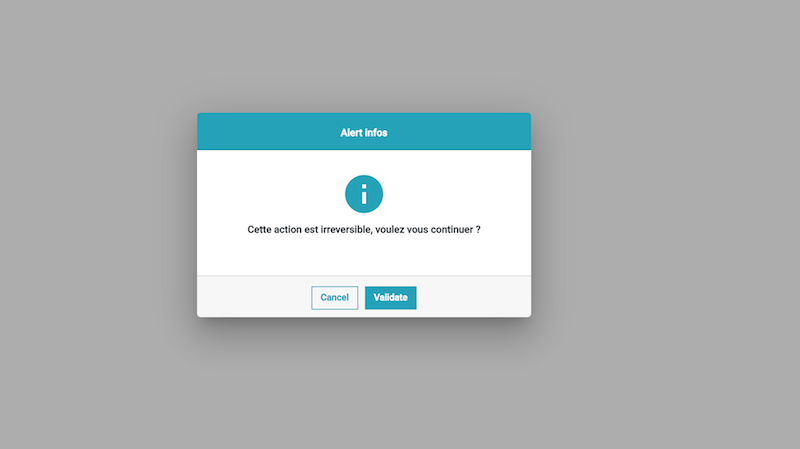
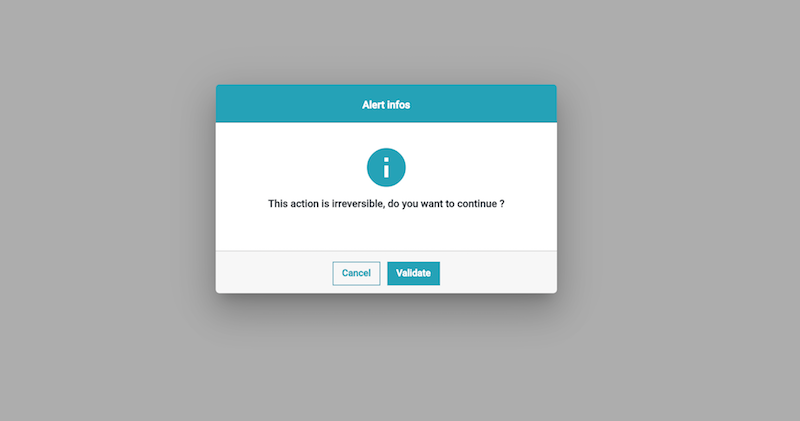
refactor(akiltech-lib): add mixins in styles and update screenshots

Changed region(s): [[0.2188, 0.1853, 0.7188, 0.7102]]

diff --git a/projects/akiltech/modal-confirm/src/lib/themes/_buttons.scss b/projects/akiltech/modal-confirm/src/lib/themes/_buttons.scss
@@ -1,93 +1,43 @@
 /* Custom buttons for current modal component */
 
+@import './mixins';
+
 // Success btn
 .btn-add-success {
-  color: $white;
-  background-color: $green;
-
-  &:hover {
-    color: $white;
-    background-color: darken($green, 10%);
-  }
+  @include btn-class($green);
 }
 
 // Success outline btn
 .btn-add-success-outline {
-  color: $green;
-  background-color: none;
-  border: 1px solid $green;
-
-  &:hover {
-    color: $white;
-    background-color: darken($green, 10%);
-  }
+  @include btn-outline-class($green);
 }
 
 // Danger btn
 .btn-add-danger {
-  color: $white;
-  background-color: $red;
-  
-  &:hover {
-    color: $white;
-    background-color: darken($red, 10%);
-  }
+  @include btn-class($red);
 }
 
 // Danger outline btn
 .btn-add-danger-outline {
-  color: $red;
-  background-color: none;
-  border: 1px solid $red;
-
-  &:hover {
-    color: $white;
-    background-color: darken($red, 10%);
-  }
+  @include btn-outline-class($red);
 }
 
 // Warning btn
 .btn-add-warning {
-  color: $white;
-  background-color: $warning;
-
-  &:hover {
-    color: $white;
-    background-color: darken($warning, 10%);
-  }
+  @include btn-class($warning);
 }
 
 // Warning outline btn
 .btn-add-warning-outline {
-  color: $warning;
-  background-color: none;
-  border: 1px solid $warning;
-
-  &:hover {
-    color: $white;
-    background-color: darken($warning, 10%);
-  }
+  @include btn-outline-class($warning);
 }
 
 // Default btn
 .btn-add-default {
-  color: $white;
-  background-color: $info;
-
-  &:hover {
-    color: $white;
-    background-color: darken($info, 10%);
-  }
+  @include btn-class($info);
 }
 
 // Warning outline btn
 .btn-add-default-outline {
-  color: $info;
-  background-color: none;
-  border: 1px solid $info;
-
-  &:hover {
-    color: $white;
-    background-color: darken($info, 10%);
-  }
+  @include btn-outline-class($info);
 }

diff --git a/projects/modal-test/src/app/about/about.component.ts b/projects/modal-test/src/app/about/about.component.ts
@@ -19,20 +19,20 @@ export class AboutComponent implements OnInit, OnDestroy {
 
   openDialog () {
     const dialogData: ConfirmInterface = {
-      type: CONFIRMATION_TYPE.WARNING,
+      // type: CONFIRMATION_TYPE.WARNING,
       // headerShown: false,
       // iconShown: false,
       footerShown: false,
-      headerTitle: 'Header title',
+      // headerTitle: 'Header title',
       // iconName: 'zoom_out',
-      bodyText: 'Body content',
-      // childComponent: InjectedComponent,
-      btnYes: 'Oui',
-      btnNo: 'Non'
+      // bodyText: 'Body content',
+      childComponent: InjectedComponent,
+      // btnYes: 'Oui',
+      // btnNo: 'Non'
     };
  
     const dialogOptions: OptionsInterface = {
-        size: '800',
+        // size: '800',
         // disabledClose: true
     }
 

diff --git a/projects/akiltech/modal-confirm/src/lib/components/modal-confirm/modal-confirm.component.ts b/projects/akiltech/modal-confirm/src/lib/components/modal-confirm/modal-confirm.component.ts
@@ -117,7 +117,7 @@ export class ModalConfirmComponent implements OnInit, OnDestroy, AfterViewChecke
     this.footerShown = data.footerShown;
     this.iconShown = data.iconShown;
     this.iconName = data.iconName;
-    this.bodyText = data.bodyText || `Cette action est irreversible, voulez vous continuer ?`;
+    this.bodyText = data.bodyText || `This action is irreversible, do you want to continue ?`;
     this.childComponent = data.childComponent;
     this.btnYes = data.btnYes;
     this.btnNo = data.btnNo;

diff --git a/projects/akiltech/modal-confirm/src/lib/themes/_mixins.scss b/projects/akiltech/modal-confirm/src/lib/themes/_mixins.scss
@@ -1,0 +1,24 @@
+/* Mixins helpers functions */
+
+// Btn class mixin
+@mixin btn-class($color) {
+    color: $white;
+    background-color: $color;
+  
+    &:hover {
+      color: $white;
+      background-color: darken($color, 10%);
+    }
+}
+  
+// Outline btn mixin
+@mixin btn-outline-class($color) {
+    color: $color;
+    background-color: none;
+    border: 1px solid $color;
+
+    &:hover {
+        color: $white;
+        background-color: darken($color, 10%);
+    }
+}

diff --git a/projects/modal-test/src/app/home/home.component.ts b/projects/modal-test/src/app/home/home.component.ts
@@ -19,9 +19,9 @@ export class HomeComponent implements OnInit, OnDestroy {
   openDialog () {
     const dialogData: ConfirmInterface = {
       type: CONFIRMATION_TYPE.SUCCESS,
-      headerShown: false,
-      iconShown: false,
-      footerShown: false,
+      // headerShown: false,
+      // iconShown: false,
+      // footerShown: false,
       headerTitle: 'Header title',
       // iconName: 'zoom_out',
       bodyText: 'Body content',

diff --git a/projects/modal-test/src/app/injected/injected.component.html b/projects/modal-test/src/app/injected/injected.component.html
@@ -3,6 +3,6 @@
         <p class="bg-warning p-2">
             Lorem ipsum dolor sit amet consectetur adipisicing elit. Quia alias dolor incidunt temporibus veniam nam provident
         </p>
-        <button class="btn btn-info" (click)="closeDialog()">Fermer</button>
+        <button class="btn btn-info mt-3" (click)="closeDialog()">Close modal</button>
     </div>
 </div>
